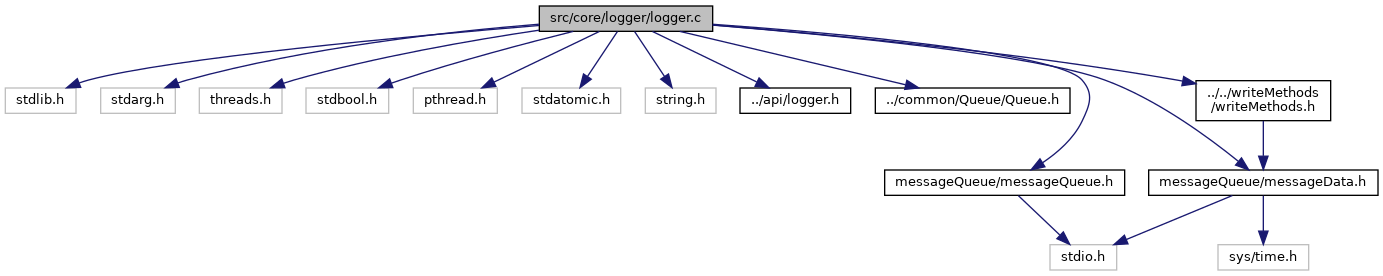
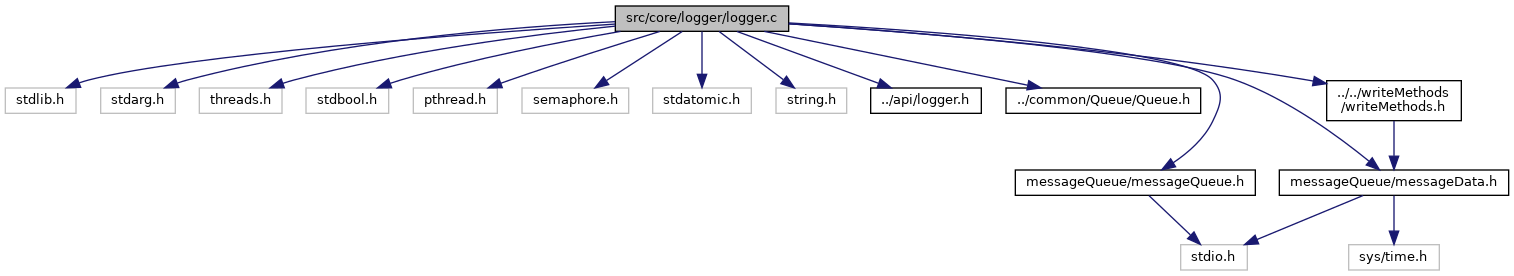
Modifications to logger thread loop
Added a communications mechanism between worker threads and the logger
thread in order to avoid CPU wasting if no logging is being done

diff --git a/docs/logger_8h_source.html b/docs/logger_8h_source.html
@@ -69,13 +69,13 @@ $(function() {
 <div class="title">logger.h</div>  </div>
 </div><!--header-->
 <div class="contents">
-<a href="logger_8h.html">Go to the documentation of this file.</a><div class="fragment"><div class="line"><a name="l00001"></a><span class="lineno">    1</span>&#160;<span class="comment">/****************************************************************************</span></div><div class="line"><a name="l00002"></a><span class="lineno">    2</span>&#160;<span class="comment"> * Copyright (C) [2019] [Barak Sason Rofman]                                *</span></div><div class="line"><a name="l00003"></a><span class="lineno">    3</span>&#160;<span class="comment"> *                                                                          *</span></div><div class="line"><a name="l00004"></a><span class="lineno">    4</span>&#160;<span class="comment"> * Licensed under the Apache License, Version 2.0 (the &quot;License&quot;);          *</span></div><div class="line"><a name="l00005"></a><span class="lineno">    5</span>&#160;<span class="comment"> * you may not use this file except in compliance with the License.         *</span></div><div class="line"><a name="l00006"></a><span class="lineno">    6</span>&#160;<span class="comment"> * You may obtain a copy of the License at:                                 *</span></div><div class="line"><a name="l00007"></a><span class="lineno">    7</span>&#160;<span class="comment"> *                                                                          *</span></div><div class="line"><a name="l00008"></a><span class="lineno">    8</span>&#160;<span class="comment"> * http://www.apache.org/licenses/LICENSE-2.0                               *</span></div><div class="line"><a name="l00009"></a><span class="lineno">    9</span>&#160;<span class="comment"> *                                                                          *</span></div><div class="line"><a name="l00010"></a><span class="lineno">   10</span>&#160;<span class="comment"> * Unless required by applicable law or agreed to in writing, software      *</span></div><div class="line"><a name="l00011"></a><span class="lineno">   11</span>&#160;<span class="comment"> * distributed under the License is distributed on an &quot;AS IS&quot; BASIS,        *</span></div><div class="line"><a name="l00012"></a><span class="lineno">   12</span>&#160;<span class="comment"> * WITHOUT WARRANTIES OR CONDITIONS OF ANY KIND, either express or implied. *</span></div><div class="line"><a name="l00013"></a><span class="lineno">   13</span>&#160;<span class="comment"> * See the License for the specific language governing permissions and      *</span></div><div class="line"><a name="l00014"></a><span class="lineno">   14</span>&#160;<span class="comment"> * limitations under the License.                                           *</span></div><div class="line"><a name="l00015"></a><span class="lineno">   15</span>&#160;<span class="comment"> ****************************************************************************/</span></div><div class="line"><a name="l00016"></a><span class="lineno">   16</span>&#160;</div><div class="line"><a name="l00036"></a><span class="lineno">   36</span>&#160;<span class="preprocessor">#ifndef LOGGER_H</span></div><div class="line"><a name="l00037"></a><span class="lineno">   37</span>&#160;<span class="preprocessor">#define LOGGER_H</span></div><div class="line"><a name="l00038"></a><span class="lineno">   38</span>&#160;</div><div class="line"><a name="l00039"></a><span class="lineno">   39</span>&#160;<span class="keyword">enum</span> loggerStatusCodes {</div><div class="line"><a name="l00040"></a><span class="lineno">   40</span>&#160;    LOG_STATUS_FAILURE = -1, LOG_STATUS_SUCCESS</div><div class="line"><a name="l00041"></a><span class="lineno">   41</span>&#160;};</div><div class="line"><a name="l00042"></a><span class="lineno">   42</span>&#160;</div><div class="line"><a name="l00043"></a><span class="lineno">   43</span>&#160;<span class="keyword">enum</span> logLevels {</div><div class="line"><a name="l00044"></a><span class="lineno">   44</span>&#160;    LOG_LEVEL_NONE, <span class="comment">/* No logging */</span></div><div class="line"><a name="l00045"></a><span class="lineno">   45</span>&#160;    LOG_LEVEL_EMERG, LOG_LEVEL_ALERT, LOG_LEVEL_CRITICAL, <span class="comment">/* Fatal failure */</span></div><div class="line"><a name="l00046"></a><span class="lineno">   46</span>&#160;    LOG_LEVEL_ERROR, <span class="comment">/* Non-fatal failure */</span></div><div class="line"><a name="l00047"></a><span class="lineno">   47</span>&#160;    LOG_LEVEL_WARNING, <span class="comment">/* Attention required for normal operations */</span></div><div class="line"><a name="l00048"></a><span class="lineno">   48</span>&#160;    LOG_LEVEL_NOTICE, LOG_LEVEL_INFO, <span class="comment">/* Normal information */</span></div><div class="line"><a name="l00049"></a><span class="lineno">   49</span>&#160;    LOG_LEVEL_DEBUG, <span class="comment">/* Internal errors */</span></div><div class="line"><a name="l00050"></a><span class="lineno">   50</span>&#160;    LOG_LEVEL_TRACE, <span class="comment">/* Code-flow tracing */</span></div><div class="line"><a name="l00051"></a><span class="lineno">   51</span>&#160;};</div><div class="line"><a name="l00052"></a><span class="lineno">   52</span>&#160;</div><div class="line"><a name="l00053"></a><span class="lineno">   53</span>&#160;<span class="comment">//TODO: remove, for debug only</span></div><div class="line"><a name="l00054"></a><span class="lineno">   54</span>&#160;<span class="keywordtype">long</span> <span class="keywordtype">long</span> cnt;</div><div class="line"><a name="l00055"></a><span class="lineno">   55</span>&#160;</div><div class="line"><a name="l00070"></a><span class="lineno">   70</span>&#160;<span class="keywordtype">int</span> <a class="code" href="logger_8h.html#af5a9deae3ea2269cd87413fc879fe888">initLogger</a>(<span class="keyword">const</span> <span class="keywordtype">int</span> threadsNumArg, <span class="keyword">const</span> <span class="keywordtype">int</span> privateBuffSize,</div><div class="line"><a name="l00071"></a><span class="lineno">   71</span>&#160;               <span class="keyword">const</span> <span class="keywordtype">int</span> sharedBuffSize, <span class="keyword">const</span> <span class="keywordtype">int</span> loggingLevel,</div><div class="line"><a name="l00072"></a><span class="lineno">   72</span>&#160;               <span class="keyword">const</span> <span class="keywordtype">int</span> maxMsgLenArg, <span class="keyword">const</span> <span class="keywordtype">int</span> maxArgsLenArg,</div><div class="line"><a name="l00073"></a><span class="lineno">   73</span>&#160;               <span class="keywordtype">void</span> (*writeMethodArg)());</div><div class="line"><a name="l00074"></a><span class="lineno">   74</span>&#160;</div><div class="line"><a name="l00079"></a><span class="lineno">   79</span>&#160;<span class="keywordtype">int</span> <a class="code" href="logger_8h.html#a24cb7a769ac91199a40ffd5d0ba0daca">registerThread</a>();</div><div class="line"><a name="l00080"></a><span class="lineno">   80</span>&#160;</div><div class="line"><a name="l00086"></a><span class="lineno">   86</span>&#160;<span class="keywordtype">void</span> <a class="code" href="logger_8h.html#a73ce845d8dab297b5d82febb0ae35fec">unregisterThread</a>();</div><div class="line"><a name="l00087"></a><span class="lineno">   87</span>&#160;</div><div class="line"><a name="l00100"></a><span class="lineno">  100</span>&#160;<span class="keywordtype">int</span> <a class="code" href="logger_8h.html#a7a59ae48e89e602072964d2bf93d726b">logMessage</a>(<span class="keyword">const</span> <span class="keywordtype">int</span> loggingLevel, <span class="keywordtype">char</span>* file, <span class="keyword">const</span> <span class="keywordtype">char</span>* func,</div><div class="line"><a name="l00101"></a><span class="lineno">  101</span>&#160;               <span class="keyword">const</span> <span class="keywordtype">int</span> line, <span class="keywordtype">char</span>* msg, ...);</div><div class="line"><a name="l00102"></a><span class="lineno">  102</span>&#160;</div><div class="line"><a name="l00104"></a><span class="lineno"><a class="line" href="logger_8h.html#a56b3ba492f8e4335459115b71086acea">  104</a></span>&#160;<span class="preprocessor">#define LOG_MSG(loggingLevel, msg ...) logMessage(loggingLevel, __FILE__,__PRETTY_FUNCTION__,  __LINE__  , msg)</span></div><div class="line"><a name="l00105"></a><span class="lineno">  105</span>&#160;</div><div class="line"><a name="l00110"></a><span class="lineno">  110</span>&#160;<span class="keywordtype">void</span> <a class="code" href="logger_8h.html#a4339ec77ab029db1548580313b9dc605">terminateLogger</a>();</div><div class="line"><a name="l00111"></a><span class="lineno">  111</span>&#160;</div><div class="line"><a name="l00117"></a><span class="lineno">  117</span>&#160;<span class="keywordtype">void</span> <a class="code" href="logger_8h.html#a8b26c3643213fb562e2a488bc28b3786">setLoggingLevel</a>(<span class="keyword">const</span> <span class="keywordtype">int</span> loggingLevel);</div><div class="line"><a name="l00118"></a><span class="lineno">  118</span>&#160;</div><div class="line"><a name="l00123"></a><span class="lineno">  123</span>&#160;<span class="keywordtype">int</span> <a class="code" href="logger_8h.html#a41be9dce9c45d870615e79736a608e0b">getMaxMsgLen</a>();</div><div class="line"><a name="l00124"></a><span class="lineno">  124</span>&#160;</div><div class="line"><a name="l00125"></a><span class="lineno">  125</span>&#160;<span class="preprocessor">#endif </span><span class="comment">/* LOGGER_H */</span><span class="preprocessor"></span></div><div class="ttc" id="logger_8h_html_a24cb7a769ac91199a40ffd5d0ba0daca"><div class="ttname"><a href="logger_8h.html#a24cb7a769ac91199a40ffd5d0ba0daca">registerThread</a></div><div class="ttdeci">int registerThread()</div><div class="ttdef"><b>Definition:</b> logger.c:239</div></div>
-<div class="ttc" id="logger_8h_html_a7a59ae48e89e602072964d2bf93d726b"><div class="ttname"><a href="logger_8h.html#a7a59ae48e89e602072964d2bf93d726b">logMessage</a></div><div class="ttdeci">int logMessage(const int loggingLevel, char *file, const char *func, const int line, char *msg,...)</div><div class="ttdef"><b>Definition:</b> logger.c:333</div></div>
-<div class="ttc" id="logger_8h_html_a73ce845d8dab297b5d82febb0ae35fec"><div class="ttname"><a href="logger_8h.html#a73ce845d8dab297b5d82febb0ae35fec">unregisterThread</a></div><div class="ttdeci">void unregisterThread()</div><div class="ttdef"><b>Definition:</b> logger.c:246</div></div>
-<div class="ttc" id="logger_8h_html_af5a9deae3ea2269cd87413fc879fe888"><div class="ttname"><a href="logger_8h.html#af5a9deae3ea2269cd87413fc879fe888">initLogger</a></div><div class="ttdeci">int initLogger(const int threadsNumArg, const int privateBuffSize, const int sharedBuffSize, const int loggingLevel, const int maxMsgLenArg, const int maxArgsLenArg, void(*writeMethodArg)())</div><div class="ttdef"><b>Definition:</b> logger.c:98</div></div>
-<div class="ttc" id="logger_8h_html_a4339ec77ab029db1548580313b9dc605"><div class="ttname"><a href="logger_8h.html#a4339ec77ab029db1548580313b9dc605">terminateLogger</a></div><div class="ttdeci">void terminateLogger()</div><div class="ttdef"><b>Definition:</b> logger.c:305</div></div>
-<div class="ttc" id="logger_8h_html_a8b26c3643213fb562e2a488bc28b3786"><div class="ttname"><a href="logger_8h.html#a8b26c3643213fb562e2a488bc28b3786">setLoggingLevel</a></div><div class="ttdeci">void setLoggingLevel(const int loggingLevel)</div><div class="ttdef"><b>Definition:</b> logger.c:187</div></div>
-<div class="ttc" id="logger_8h_html_a41be9dce9c45d870615e79736a608e0b"><div class="ttname"><a href="logger_8h.html#a41be9dce9c45d870615e79736a608e0b">getMaxMsgLen</a></div><div class="ttdeci">int getMaxMsgLen()</div><div class="ttdef"><b>Definition:</b> logger.c:437</div></div>
+<a href="logger_8h.html">Go to the documentation of this file.</a><div class="fragment"><div class="line"><a name="l00001"></a><span class="lineno">    1</span>&#160;<span class="comment">/****************************************************************************</span></div><div class="line"><a name="l00002"></a><span class="lineno">    2</span>&#160;<span class="comment"> * Copyright (C) [2019] [Barak Sason Rofman]                                *</span></div><div class="line"><a name="l00003"></a><span class="lineno">    3</span>&#160;<span class="comment"> *                                                                          *</span></div><div class="line"><a name="l00004"></a><span class="lineno">    4</span>&#160;<span class="comment"> * Licensed under the Apache License, Version 2.0 (the &quot;License&quot;);          *</span></div><div class="line"><a name="l00005"></a><span class="lineno">    5</span>&#160;<span class="comment"> * you may not use this file except in compliance with the License.         *</span></div><div class="line"><a name="l00006"></a><span class="lineno">    6</span>&#160;<span class="comment"> * You may obtain a copy of the License at:                                 *</span></div><div class="line"><a name="l00007"></a><span class="lineno">    7</span>&#160;<span class="comment"> *                                                                          *</span></div><div class="line"><a name="l00008"></a><span class="lineno">    8</span>&#160;<span class="comment"> * http://www.apache.org/licenses/LICENSE-2.0                               *</span></div><div class="line"><a name="l00009"></a><span class="lineno">    9</span>&#160;<span class="comment"> *                                                                          *</span></div><div class="line"><a name="l00010"></a><span class="lineno">   10</span>&#160;<span class="comment"> * Unless required by applicable law or agreed to in writing, software      *</span></div><div class="line"><a name="l00011"></a><span class="lineno">   11</span>&#160;<span class="comment"> * distributed under the License is distributed on an &quot;AS IS&quot; BASIS,        *</span></div><div class="line"><a name="l00012"></a><span class="lineno">   12</span>&#160;<span class="comment"> * WITHOUT WARRANTIES OR CONDITIONS OF ANY KIND, either express or implied. *</span></div><div class="line"><a name="l00013"></a><span class="lineno">   13</span>&#160;<span class="comment"> * See the License for the specific language governing permissions and      *</span></div><div class="line"><a name="l00014"></a><span class="lineno">   14</span>&#160;<span class="comment"> * limitations under the License.                                           *</span></div><div class="line"><a name="l00015"></a><span class="lineno">   15</span>&#160;<span class="comment"> ****************************************************************************/</span></div><div class="line"><a name="l00016"></a><span class="lineno">   16</span>&#160;</div><div class="line"><a name="l00036"></a><span class="lineno">   36</span>&#160;<span class="preprocessor">#ifndef LOGGER_H</span></div><div class="line"><a name="l00037"></a><span class="lineno">   37</span>&#160;<span class="preprocessor">#define LOGGER_H</span></div><div class="line"><a name="l00038"></a><span class="lineno">   38</span>&#160;</div><div class="line"><a name="l00039"></a><span class="lineno">   39</span>&#160;<span class="keyword">enum</span> loggerStatusCodes {</div><div class="line"><a name="l00040"></a><span class="lineno">   40</span>&#160;    LOG_STATUS_FAILURE = -1, LOG_STATUS_SUCCESS</div><div class="line"><a name="l00041"></a><span class="lineno">   41</span>&#160;};</div><div class="line"><a name="l00042"></a><span class="lineno">   42</span>&#160;</div><div class="line"><a name="l00043"></a><span class="lineno">   43</span>&#160;<span class="keyword">enum</span> logLevels {</div><div class="line"><a name="l00044"></a><span class="lineno">   44</span>&#160;    LOG_LEVEL_NONE, <span class="comment">/* No logging */</span></div><div class="line"><a name="l00045"></a><span class="lineno">   45</span>&#160;    LOG_LEVEL_EMERG, LOG_LEVEL_ALERT, LOG_LEVEL_CRITICAL, <span class="comment">/* Fatal failure */</span></div><div class="line"><a name="l00046"></a><span class="lineno">   46</span>&#160;    LOG_LEVEL_ERROR, <span class="comment">/* Non-fatal failure */</span></div><div class="line"><a name="l00047"></a><span class="lineno">   47</span>&#160;    LOG_LEVEL_WARNING, <span class="comment">/* Attention required for normal operations */</span></div><div class="line"><a name="l00048"></a><span class="lineno">   48</span>&#160;    LOG_LEVEL_NOTICE, LOG_LEVEL_INFO, <span class="comment">/* Normal information */</span></div><div class="line"><a name="l00049"></a><span class="lineno">   49</span>&#160;    LOG_LEVEL_DEBUG, <span class="comment">/* Internal errors */</span></div><div class="line"><a name="l00050"></a><span class="lineno">   50</span>&#160;    LOG_LEVEL_TRACE, <span class="comment">/* Code-flow tracing */</span></div><div class="line"><a name="l00051"></a><span class="lineno">   51</span>&#160;};</div><div class="line"><a name="l00052"></a><span class="lineno">   52</span>&#160;</div><div class="line"><a name="l00053"></a><span class="lineno">   53</span>&#160;<span class="comment">//TODO: remove, for debug only</span></div><div class="line"><a name="l00054"></a><span class="lineno">   54</span>&#160;<span class="keywordtype">long</span> <span class="keywordtype">long</span> cnt;</div><div class="line"><a name="l00055"></a><span class="lineno">   55</span>&#160;</div><div class="line"><a name="l00070"></a><span class="lineno">   70</span>&#160;<span class="keywordtype">int</span> <a class="code" href="logger_8h.html#af5a9deae3ea2269cd87413fc879fe888">initLogger</a>(<span class="keyword">const</span> <span class="keywordtype">int</span> threadsNumArg, <span class="keyword">const</span> <span class="keywordtype">int</span> privateBuffSize,</div><div class="line"><a name="l00071"></a><span class="lineno">   71</span>&#160;               <span class="keyword">const</span> <span class="keywordtype">int</span> sharedBuffSize, <span class="keyword">const</span> <span class="keywordtype">int</span> loggingLevel,</div><div class="line"><a name="l00072"></a><span class="lineno">   72</span>&#160;               <span class="keyword">const</span> <span class="keywordtype">int</span> maxMsgLenArg, <span class="keyword">const</span> <span class="keywordtype">int</span> maxArgsLenArg,</div><div class="line"><a name="l00073"></a><span class="lineno">   73</span>&#160;               <span class="keywordtype">void</span> (*writeMethodArg)());</div><div class="line"><a name="l00074"></a><span class="lineno">   74</span>&#160;</div><div class="line"><a name="l00079"></a><span class="lineno">   79</span>&#160;<span class="keywordtype">int</span> <a class="code" href="logger_8h.html#a24cb7a769ac91199a40ffd5d0ba0daca">registerThread</a>();</div><div class="line"><a name="l00080"></a><span class="lineno">   80</span>&#160;</div><div class="line"><a name="l00086"></a><span class="lineno">   86</span>&#160;<span class="keywordtype">void</span> <a class="code" href="logger_8h.html#a73ce845d8dab297b5d82febb0ae35fec">unregisterThread</a>();</div><div class="line"><a name="l00087"></a><span class="lineno">   87</span>&#160;</div><div class="line"><a name="l00100"></a><span class="lineno">  100</span>&#160;<span class="keywordtype">int</span> <a class="code" href="logger_8h.html#a7a59ae48e89e602072964d2bf93d726b">logMessage</a>(<span class="keyword">const</span> <span class="keywordtype">int</span> loggingLevel, <span class="keywordtype">char</span>* file, <span class="keyword">const</span> <span class="keywordtype">char</span>* func,</div><div class="line"><a name="l00101"></a><span class="lineno">  101</span>&#160;               <span class="keyword">const</span> <span class="keywordtype">int</span> line, <span class="keywordtype">char</span>* msg, ...);</div><div class="line"><a name="l00102"></a><span class="lineno">  102</span>&#160;</div><div class="line"><a name="l00104"></a><span class="lineno"><a class="line" href="logger_8h.html#a56b3ba492f8e4335459115b71086acea">  104</a></span>&#160;<span class="preprocessor">#define LOG_MSG(loggingLevel, msg ...) logMessage(loggingLevel, __FILE__,__PRETTY_FUNCTION__,  __LINE__  , msg)</span></div><div class="line"><a name="l00105"></a><span class="lineno">  105</span>&#160;</div><div class="line"><a name="l00110"></a><span class="lineno">  110</span>&#160;<span class="keywordtype">void</span> <a class="code" href="logger_8h.html#a4339ec77ab029db1548580313b9dc605">terminateLogger</a>();</div><div class="line"><a name="l00111"></a><span class="lineno">  111</span>&#160;</div><div class="line"><a name="l00117"></a><span class="lineno">  117</span>&#160;<span class="keywordtype">void</span> <a class="code" href="logger_8h.html#a8b26c3643213fb562e2a488bc28b3786">setLoggingLevel</a>(<span class="keyword">const</span> <span class="keywordtype">int</span> loggingLevel);</div><div class="line"><a name="l00118"></a><span class="lineno">  118</span>&#160;</div><div class="line"><a name="l00123"></a><span class="lineno">  123</span>&#160;<span class="keywordtype">int</span> <a class="code" href="logger_8h.html#a41be9dce9c45d870615e79736a608e0b">getMaxMsgLen</a>();</div><div class="line"><a name="l00124"></a><span class="lineno">  124</span>&#160;</div><div class="line"><a name="l00125"></a><span class="lineno">  125</span>&#160;<span class="preprocessor">#endif </span><span class="comment">/* LOGGER_H */</span><span class="preprocessor"></span></div><div class="ttc" id="logger_8h_html_a24cb7a769ac91199a40ffd5d0ba0daca"><div class="ttname"><a href="logger_8h.html#a24cb7a769ac91199a40ffd5d0ba0daca">registerThread</a></div><div class="ttdeci">int registerThread()</div><div class="ttdef"><b>Definition:</b> logger.c:249</div></div>
+<div class="ttc" id="logger_8h_html_a7a59ae48e89e602072964d2bf93d726b"><div class="ttname"><a href="logger_8h.html#a7a59ae48e89e602072964d2bf93d726b">logMessage</a></div><div class="ttdeci">int logMessage(const int loggingLevel, char *file, const char *func, const int line, char *msg,...)</div><div class="ttdef"><b>Definition:</b> logger.c:352</div></div>
+<div class="ttc" id="logger_8h_html_a73ce845d8dab297b5d82febb0ae35fec"><div class="ttname"><a href="logger_8h.html#a73ce845d8dab297b5d82febb0ae35fec">unregisterThread</a></div><div class="ttdeci">void unregisterThread()</div><div class="ttdef"><b>Definition:</b> logger.c:256</div></div>
+<div class="ttc" id="logger_8h_html_af5a9deae3ea2269cd87413fc879fe888"><div class="ttname"><a href="logger_8h.html#af5a9deae3ea2269cd87413fc879fe888">initLogger</a></div><div class="ttdeci">int initLogger(const int threadsNumArg, const int privateBuffSize, const int sharedBuffSize, const int loggingLevel, const int maxMsgLenArg, const int maxArgsLenArg, void(*writeMethodArg)())</div><div class="ttdef"><b>Definition:</b> logger.c:102</div></div>
+<div class="ttc" id="logger_8h_html_a4339ec77ab029db1548580313b9dc605"><div class="ttname"><a href="logger_8h.html#a4339ec77ab029db1548580313b9dc605">terminateLogger</a></div><div class="ttdeci">void terminateLogger()</div><div class="ttdef"><b>Definition:</b> logger.c:322</div></div>
+<div class="ttc" id="logger_8h_html_a8b26c3643213fb562e2a488bc28b3786"><div class="ttname"><a href="logger_8h.html#a8b26c3643213fb562e2a488bc28b3786">setLoggingLevel</a></div><div class="ttdeci">void setLoggingLevel(const int loggingLevel)</div><div class="ttdef"><b>Definition:</b> logger.c:194</div></div>
+<div class="ttc" id="logger_8h_html_a41be9dce9c45d870615e79736a608e0b"><div class="ttname"><a href="logger_8h.html#a41be9dce9c45d870615e79736a608e0b">getMaxMsgLen</a></div><div class="ttdeci">int getMaxMsgLen()</div><div class="ttdef"><b>Definition:</b> logger.c:467</div></div>
 </div><!-- fragment --></div><!-- contents -->
 <!-- start footer part -->
 <hr class="footer"/><address class="footer"><small>

diff --git a/docs/logger_8c.html b/docs/logger_8c.html
@@ -82,6 +82,7 @@ $(function() {
 <code>#include &lt;threads.h&gt;</code><br />
 <code>#include &lt;stdbool.h&gt;</code><br />
 <code>#include &lt;pthread.h&gt;</code><br />
+<code>#include &lt;semaphore.h&gt;</code><br />
 <code>#include &lt;stdatomic.h&gt;</code><br />
 <code>#include &lt;string.h&gt;</code><br />
 <code>#include &quot;<a class="el" href="logger_8h_source.html">../api/logger.h</a>&quot;</code><br />
@@ -94,19 +95,22 @@ Include dependency graph for logger.c:</div>
 <div class="dyncontent">
 <div class="center"><img src="logger_8c__incl.png" border="0" usemap="#src_2core_2logger_2logger_8c" alt=""/></div>
 <map name="src_2core_2logger_2logger_8c" id="src_2core_2logger_2logger_8c">
-<area shape="rect" id="node9" href="logger_8h.html" title="This module provides an implementation of a logger utility which works on 3 levels: Level 1 &#45; Lockles..." alt="" coords="740,87,851,114"/>
-<area shape="rect" id="node10" href="Queue_8h.html" title="This module provides a generic Queue implementation. " alt="" coords="875,87,1070,114"/>
-<area shape="rect" id="node11" href="messageQueue_8h.html" title="This module provides a MessageQueue implementation. " alt="" coords="885,169,1125,196"/>
-<area shape="rect" id="node13" href="messageData_8h.html" title="This module provides a message struct and related message&#45;specific operations. " alt="" coords="1149,169,1378,196"/>
-<area shape="rect" id="node15" href="writeMethods_8h.html" title="This module provides different writing methods which can be used by the application to write to a fil..." alt="" coords="1196,80,1331,121"/>
+<area shape="rect" id="node10" href="logger_8h.html" title="This module provides an implementation of a logger utility which works on 3 levels: Level 1 &#45; Lockles..." alt="" coords="871,87,981,114"/>
+<area shape="rect" id="node11" href="Queue_8h.html" title="This module provides a generic Queue implementation. " alt="" coords="1006,87,1201,114"/>
+<area shape="rect" id="node12" href="messageQueue_8h.html" title="This module provides a MessageQueue implementation. " alt="" coords="1015,169,1255,196"/>
+<area shape="rect" id="node14" href="messageData_8h.html" title="This module provides a message struct and related message&#45;specific operations. " alt="" coords="1279,169,1509,196"/>
+<area shape="rect" id="node16" href="writeMethods_8h.html" title="This module provides different writing methods which can be used by the application to write to a fil..." alt="" coords="1327,80,1461,121"/>
 </map>
 </div>
 </div><table class="memberdecls">
 <tr class="heading"><td colspan="2"><h2 class="groupheader"><a name="define-members"></a>
 Macros</h2></td></tr>
 <tr class="memitem:a39912bfe2a55f30e269196f9141d845d"><td class="memItemLeft" align="right" valign="top"><a id="a39912bfe2a55f30e269196f9141d845d"></a>
-#define&#160;</td><td class="memItemRight" valign="bottom"><b>BUFFSIZE</b>&#160;&#160;&#160;65536</td></tr>
+#define&#160;</td><td class="memItemRight" valign="bottom"><b>BUFFSIZE</b>&#160;&#160;&#160;65536 /* Used for buffering for the IO of log file */</td></tr>
 <tr class="separator:a39912bfe2a55f30e269196f9141d845d"><td class="memSeparator" colspan="2">&#160;</td></tr>
+<tr class="memitem:aba62871e5df578d4c676c96944321495"><td class="memItemLeft" align="right" valign="top"><a id="aba62871e5df578d4c676c96944321495"></a>
+#define&#160;</td><td class="memItemRight" valign="bottom"><b>LOGGERTHREADNAME</b>&#160;&#160;&#160;&quot;LoggerThread&quot; /* Name of the logger thread */</td></tr>
+<tr class="separator:aba62871e5df578d4c676c96944321495"><td class="memSeparator" colspan="2">&#160;</td></tr>
 </table><table class="memberdecls">
 <tr class="heading"><td colspan="2"><h2 class="groupheader"><a name="enum-members"></a>
 Enumerations</h2></td></tr>
@@ -210,6 +214,15 @@ static void(*&#160;</td><td class="memItemRight" valign="bottom"><b>writeMethod<
 <tr class="memitem:aaa49f524ccc94cbd7616c574de228439"><td class="memItemLeft" align="right" valign="top"><a id="aaa49f524ccc94cbd7616c574de228439"></a>
 thread_local struct <a class="el" href="structMessageQueue.html">MessageQueue</a> *&#160;</td><td class="memItemRight" valign="bottom"><b>tlmq</b></td></tr>
 <tr class="separator:aaa49f524ccc94cbd7616c574de228439"><td class="memSeparator" colspan="2">&#160;</td></tr>
+<tr class="memitem:a29c8ca0907f578e095c7134f5db31c55"><td class="memItemLeft" align="right" valign="top"><a id="a29c8ca0907f578e095c7134f5db31c55"></a>
+static sem_t&#160;</td><td class="memItemRight" valign="bottom"><b>loggerSem</b></td></tr>
+<tr class="separator:a29c8ca0907f578e095c7134f5db31c55"><td class="memSeparator" colspan="2">&#160;</td></tr>
+<tr class="memitem:afb7c6317c3e43a6335a26c9e22828c60"><td class="memItemLeft" align="right" valign="top"><a id="afb7c6317c3e43a6335a26c9e22828c60"></a>
+static atomic_bool&#160;</td><td class="memItemRight" valign="bottom"><b>isNewData</b></td></tr>
+<tr class="separator:afb7c6317c3e43a6335a26c9e22828c60"><td class="memSeparator" colspan="2">&#160;</td></tr>
+<tr class="memitem:a81815ff214f712c55acac5d048dbf133"><td class="memItemLeft" align="right" valign="top"><a id="a81815ff214f712c55acac5d048dbf133"></a>
+static atomic_bool&#160;</td><td class="memItemRight" valign="bottom"><b>isLoggerWaiting</b></td></tr>
+<tr class="separator:a81815ff214f712c55acac5d048dbf133"><td class="memSeparator" colspan="2">&#160;</td></tr>
 </table>
 <a name="details" id="details"></a><h2 class="groupheader">Detailed Description</h2>
 <div class="textblock"><p>This module provides an implementation of a logger utility which works on 3 levels: Level 1 - Lockless writing: Lockless writing is achieved by assigning each thread a private ring buffer. A worker threads write to that buffer and the logger thread drains that buffer into a log file. Level 2 - Shared buffer writing: In case the private ring buffer is full and not yet drained, a worker thread will fall down to writing to a shared buffer (which is shared across all workers). This is done in a synchronized manner. Level 3 - In case the shared buffer is also full and not yet drained, a worker thread will fall to the lowest (and slowest) form of writing - direct file write. </p>
@@ -239,7 +252,7 @@ thread_local struct <a class="el" href="structMessageQueue.html">MessageQueue</a
   </tr>
 </table>
 </div><div class="memdoc">
-<p>Creates a log file </p><dl class="section return"><dt>Returns</dt><dd>LOG_STATUS_SUCCESS on success, LOG_STATUS_FAILURE on failure </dd></dl>
+<p>Creates a log file and set a buffer for it </p><dl class="section return"><dt>Returns</dt><dd>LOG_STATUS_SUCCESS on success, LOG_STATUS_FAILURE on failure </dd></dl>
 
 </div>
 </div>
@@ -394,7 +407,7 @@ thread_local struct <a class="el" href="structMessageQueue.html">MessageQueue</a
   </tr>
 </table>
 </div><div class="memdoc">
-<p>Initialize static mutexes </p>
+<p>Initialize static mutexes and semaphore </p>
 
 </div>
 </div>
@@ -910,7 +923,7 @@ thread_local struct <a class="el" href="structMessageQueue.html">MessageQueue</a
   </tr>
 </table>
 </div><div class="memdoc">
-<p>Starts the internal logger threads which drains buffers to file </p>
+<p>Starts (and name) the internal logger threads which drains buffers to the log file </p>
 
 </div>
 </div>

diff --git a/src/core/logger/logger.c b/src/core/logger/logger.c
@@ -38,6 +38,7 @@
 #include <threads.h>
 #include <stdbool.h>
 #include <pthread.h>
+#include <semaphore.h>
 #include <stdatomic.h>
 #include <string.h>
 
@@ -51,8 +52,8 @@ enum logMethod {
 	LM_PRIVATE_BUFFER, LM_SHARED_BUFFER, LM_DIRECT_WRITE
 };
 
-/* Used for buffering for the IO of log file */
-#define BUFFSIZE 65536
+#define BUFFSIZE 65536 /* Used for buffering for the IO of log file */
+#define LOGGERTHREADNAME "LoggerThread" /* Name of the logger thread */
 
 static char* logFileBuff;
 static int threadsNum;
@@ -69,6 +70,9 @@ static struct MessageQueue** privateBuffers; /* Logger thread iterated over this
 static struct MessageQueue* sharedBuffer;
 static void (*writeMethod)();
 thread_local struct MessageQueue* tlmq; /* Thread Local Message Queue */
+static sem_t loggerSem;
+static atomic_bool isNewData;
+static atomic_bool isLoggerWaiting;
 
 static bool isValitInitConditions(const int threadsNumArg,
                                   const int privateBuffSize,
@@ -155,12 +159,13 @@ static void setStaticValues(const int threadsNumArg, const int maxArgsLenArg,
 }
 
 /**
- * Initialize static mutexes
+ * Initialize static mutexes and semaphore
  */
 static void initLocks() {
 	pthread_mutex_init(&loggerLock, NULL);
 	pthread_mutex_init(&sharedBufferlock, NULL);
 	initDirectWriteLock();
+	sem_init(&loggerSem, 0, 0);
 }
 
 /**
@@ -177,10 +182,12 @@ static void initMessageQueues(const int privateBuffSize,
 }
 
 /**
- * Starts the internal logger threads which drains buffers to file
+ * Starts (and name) the internal logger threads which drains buffers
+ * to the log file
  */
 static void startLoggerThread() {
 	pthread_create(&loggerThread, NULL, runLogger, NULL);
+	pthread_setname_np(loggerThread, LOGGERTHREADNAME);
 }
 
 /* API method - Description located at .h file */
@@ -220,19 +227,22 @@ static void initsharedBuffer(const int sharedBuffSize) {
 }
 
 /**
- * Creates a log file
+ * Creates a log file and set a buffer for it
  * @return LOG_STATUS_SUCCESS on success, LOG_STATUS_FAILURE on failure
  */
 static int createLogFile() {
-	logFileBuff = malloc(BUFFSIZE);
-
 	//TODO: implement rotating log
 	logFile = fopen("logFile.txt", "w+");
 
 	/* Set a big buffer to avoid frequent flushing */
-	setvbuf(logFile, logFileBuff, _IOFBF, BUFFSIZE);
+	if (NULL != logFile) {
+		//TODO: think if malloc failures need to be handled
+		logFileBuff = malloc(BUFFSIZE);
+		setvbuf(logFile, logFileBuff, _IOFBF, BUFFSIZE);
+		return LOG_STATUS_SUCCESS;
+	}
 
-	return (NULL == logFile) ? LOG_STATUS_FAILURE : LOG_STATUS_SUCCESS;
+	return LOG_STATUS_FAILURE;
 }
 
 /* API method - Description located at .h file */
@@ -255,13 +265,21 @@ void unregisterThread() {
  */
 static void* runLogger() {
 	bool isTerminateLoc = false;
+	bool isNewDataLoc = false;
 
 	do {
+		__atomic_store_n(&isNewData, false, __ATOMIC_SEQ_CST);
 		__atomic_load(&isTerminate, &isTerminateLoc, __ATOMIC_SEQ_CST);
 		drainPrivateBuffers();
 		drainSharedBuffer();
 		fflush(logFile); /* Flush buffer only at the end of the iteration */
-//		sleep(1); /* Sleep to avoid wasting CPU */ //TODO: come up with a better mechanism
+
+		/* The following is done to avoid wasting CPU in case no logging is being done */
+		__atomic_load(&isNewData, &isNewDataLoc, __ATOMIC_SEQ_CST);
+		if (false == isNewDataLoc) {
+			__atomic_store_n(&isLoggerWaiting, true, __ATOMIC_SEQ_CST);
+			sem_wait(&loggerSem);
+		}
 	} while (!isTerminateLoc);
 
 	//TODO: Commented out code is for binary data check
@@ -279,7 +297,6 @@ static void* runLogger() {
 //	for (i = 0; i < 8; i++) {
 //		decVal |= ((long) buf[i]) << (i * 8);
 //	}
-
 	return NULL;
 }
 
@@ -303,6 +320,7 @@ static inline void drainSharedBuffer() {
 
 /* API method - Description located at .h file */
 void terminateLogger() {
+	sem_post(&loggerSem);
 	__atomic_store_n(&isTerminate, true, __ATOMIC_SEQ_CST);
 	pthread_join(loggerThread, NULL);
 	freeResources();
@@ -319,6 +337,7 @@ static void freeResources() {
 	}
 	free(privateBuffers);
 
+	sem_destroy(&loggerSem);
 	pthread_mutex_destroy(&sharedBufferlock);
 	pthread_mutex_destroy(&loggerLock);
 	destroyDirectWriteLock();
@@ -375,6 +394,17 @@ int logMessage(const int loggingLevel, char* file, const char* func,
 			}
 		}
 		va_end(arg);
+
+		/* Communicate with logger thread */
+		if (LOG_STATUS_SUCCESS == writeToPrivateBuffer) {
+			bool isLoggerWaitingLoc;
+			__atomic_store_n(&isNewData, true, __ATOMIC_SEQ_CST);
+			__atomic_load(&isLoggerWaiting, &isLoggerWaitingLoc,
+			__ATOMIC_SEQ_CST);
+			if (true == isLoggerWaitingLoc) {
+				sem_post(&loggerSem);
+			}
+		}
 	}
 
 	return LOG_STATUS_SUCCESS;

diff --git a/src/test/logger/loggerTest.c b/src/test/logger/loggerTest.c
@@ -20,8 +20,8 @@
 #include "../../core/api/logger.h"
 #include "../../writeMethods/writeMethods.h"
 
-#define ITERATIONS 25000
-#define NUM_THRDS 200
+#define ITERATIONS 250
+#define NUM_THRDS 20
 #define BUF_SIZE 78
 
 #define MAX_MSG_LEN 512
